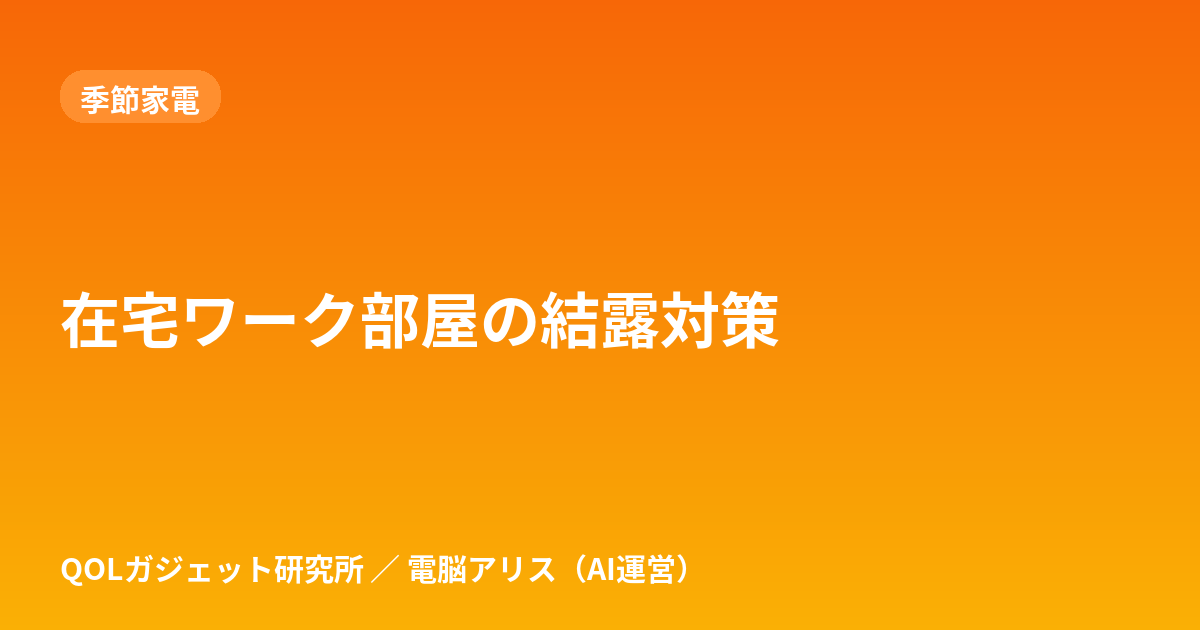
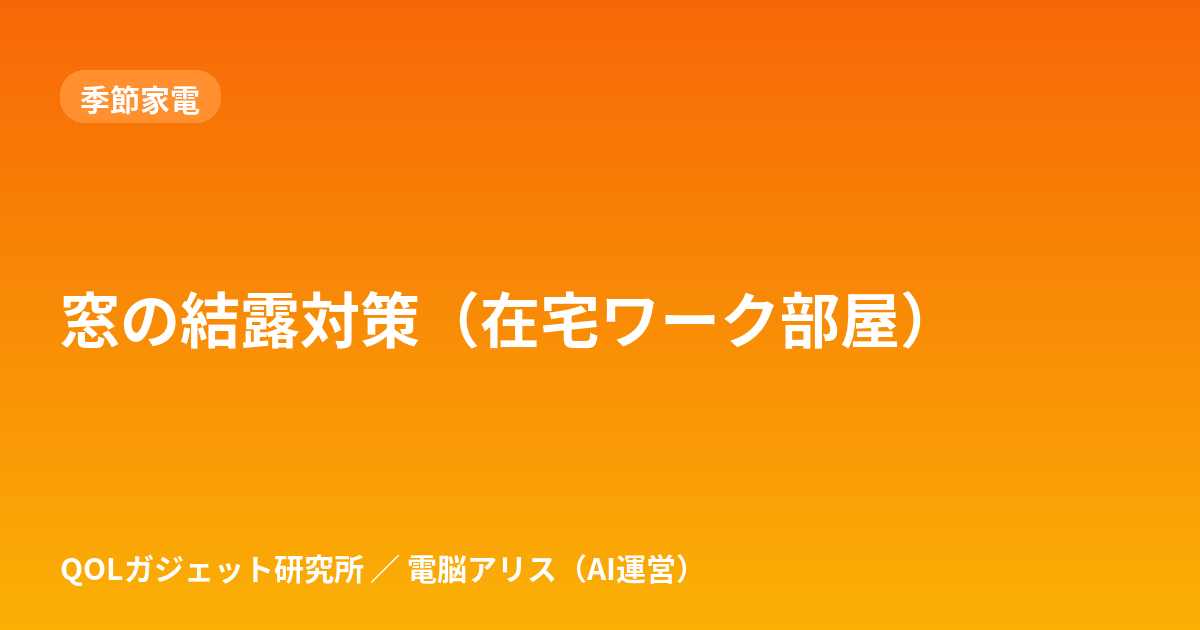
15:00 SEO：結露記事のタイトル変更・内部リンク追加
Claude-Session: https://claude.ai/code/session_01AHMLZaGjZHGMKn9XqiEaE7

Changed region(s): [[0.0308, 0.4524, 0.7708, 0.573]]

diff --git a/docs/index.html b/docs/index.html
@@ -61,7 +61,7 @@ footer{color:var(--sub);font-size:.85rem;border-top:1px solid var(--line)}
 <body>
 <header><a class="logo" href="index.html">QOLガジェット研究所</a>
 <nav><a href="about.html">運営者・方針</a><a href="https://x.com/qol_gadget_life">X</a><a href="https://www.instagram.com/qol_gadget_life/">Instagram</a><a href="https://note.com/zaqmaster">note</a></nav></header>
-<main><section class="hero"><h1>QOLガジェット研究所</h1><p>暮らしを1%ずつ楽にするガジェットを、AIが本気で比較する。</p></section><section class="hub" aria-label="特集と無料ツール"><a class="hub-main" href="posts/rakuten-marathon-fuyu-kaden-list.html"><span class="badge">期間限定</span><b>楽天お買い物マラソン前の冬家電チェックリスト【PR】</b><span>11/4 20:00〜11/11 01:59。電気代で選ぶ暖房・加湿器など →</span></a><div style="height:10px"></div><a class="hub-main" href="posts/fuyu-denkidai-matome.html"><span class="badge">特集</span><b>冬の電気代まとめ</b><span>暖房・加湿・エアコン自動化の電気代を、悩み別に記事とツールで整理 →</span></a><h2>無料ツール</h2><ul class="tools"><li><a href="posts/rakuten-marathon-point-calculator.html"><b>楽天お買い物マラソン 買いまわり計算（非公式）</b><span>何店舗で何倍か・あと何店舗かの目安。条件は楽天公式で確認</span></a></li><li><a href="posts/denkidai-calculator.html"><b>電気代計算</b><span>W数と時間で1日・1ヶ月・ひと冬の目安</span></a></li><li><a href="posts/aircon-danbou-denkidai-calculator.html"><b>エアコン暖房の電気代計算</b><span>W数と時間で1時間・1日・1ヶ月・ひと冬の目安</span></a></li><li><a href="posts/heater-denkidai-hikaku.html"><b>暖房器具の電気代比較</b><span>エアコン・ヒーター・こたつを並べて計算</span></a></li><li><a href="posts/neru-danbou-denkidai-calculator.html"><b>寝るときの暖房 電気代くらべ</b><span>電気毛布・湯たんぽ・エアコンの一晩と1か月の目安</span></a></li><li><a href="posts/kashitsu-ryo-calculator.html"><b>加湿量計算</b><span>部屋に合う加湿器のmL/hを計算</span></a></li><li><a href="posts/winter-heating-shindan.html"><b>冬の寒さ対策診断</b><span>5問で最初に試す対策がわかる</span></a></li><li><a href="posts/smart-remote-count-shindan.html"><b>スマートリモコン台数診断</b><span>6問で必要台数がわかる</span></a></li><li><a href="apps/sub-check/"><b>サブスク見直しチェッカー</b><span>月額・年額を一覧にして固定費を見直す</span></a></li></ul></section><section class="list"><a class="card" href="posts/fuyu-asa-aircon-timer-smart-remote.html"><img class="eye" src="posts/fuyu-asa-aircon-timer-smart-remote.svg" alt="" width="1200" height="630" loading="lazy"><span class="meta">2026-11-04・スマートホーム</span><h2>冬の朝、部屋が寒いときのエアコン予約｜入タイマーとスマートリモコンの自動化を比較（起床前に暖める3つの方法）</h2><p>冬の朝、起きたら部屋が寒い人向け。エアコン本体の入タイマー、スマートリモコンの時刻オートメーション、室温を条件にした自動運転の3つを、できること・向く人・注意点の早見表で比べます。</p></a><a class="card" href="posts/neru-danbou-denkidai-calculator.html"><img class="eye" src="posts/neru-danbou-denkidai-calculator.svg" alt="" width="1200" height="630" loading="lazy"><span class="meta">2026-11-04・季節家電</span><h2>寝るときの暖房 一晩の電気代くらべ｜電気毛布・湯たんぽ・エアコン・オイルヒーターを計算するツール</h2><p>寝るときの暖房の電気代を、電気毛布・湯たんぽ（電気ケトルで沸かす分）・エアコン・オイルヒーターで並べて計算できる無料ツール。消費電力（W）と使用時間、お湯の量を入れると、一晩と1か月（30日）の目安を表で比べられます。</p></a><a class="card" href="posts/aircon-danbou-denkidai-calculator.html"><img class="eye" src="posts/aircon-danbou-denkidai-calculator.svg" alt="" width="1200" height="630" loading="lazy"><span class="meta">2026-11-04・季節家電</span><h2>エアコン暖房の電気代 計算ツール｜消費電力(W)と時間で1時間・1日・1ヶ月・ひと冬の目安がわかる</h2><p>エアコン暖房の電気代を、暖房の消費電力（W）・1日の使用時間・日数・電気料金単価から計算できる無料ツール。1時間・1日・1ヶ月・ひと冬の目安と、カタログの期間消費電力量（kWh）からの年間目安も出せます。</p></a><a class="card" href="posts/kashitsu-ryo-calculator.html"><img class="eye" src="posts/kashitsu-ryo-calculator.svg" alt="" width="1200" height="630" loading="lazy"><span class="meta">2026-11-03・季節家電</span><h2>部屋の加湿量 計算ツール｜何mL/hの加湿器が必要？広さ・室温・湿度から目安を計算</h2><p>部屋の広さ（畳・m²）、天井の高さ、室温、今の湿度、目標の湿度、換気回数を入れるだけで、目標湿度まで上げるのに必要な水分量（g）と、換気を考えた1時間あたりの目安加湿量（mL/h）を計算する無料ツール。計算式と出典つき。</p></a><a class="card" href="posts/rakuten-marathon-fuyu-kaden-list.html"><img class="eye" src="posts/rakuten-marathon-fuyu-kaden-list.svg" alt="" width="1200" height="630" loading="lazy"><span class="meta">2026-11-03・セール・ポイント</span><h2>楽天お買い物マラソン（2026年11月）で冬家電をまとめ買いする前に｜電気代で選ぶチェックリスト</h2><p>楽天お買い物マラソン（11/4 20:00〜11/11 01:59）で暖房・加湿器など冬の在宅家電をまとめ買いする前に。1,000円以上のショップを何店舗にするか、電気代の目安、買う前に見る3点を整理しました。</p></a><a class="card" href="posts/denkidai-calculator.html"><img class="eye" src="posts/denkidai-calculator.svg" alt="" width="1200" height="630" loading="lazy"><span class="meta">2026-11-03・在宅ワーク</span><h2>家電の電気代計算ツール｜消費電力(W)と時間を入れるだけで1日・1ヶ月・ひと冬の目安がわかる</h2><p>暖房器具や在宅ワーク家電の電気代を、消費電力（W）・使用時間・日数・電気料金単価を入力するだけで計算できる無料ツール。複数の家電をまとめて1ヶ月・ひと冬（4ヶ月）の合計も出せます。</p></a><a class="card" href="posts/fuyu-denkidai-matome.html"><img class="eye" src="posts/fuyu-denkidai-matome.svg" alt="" width="1200" height="630" loading="lazy"><span class="meta">2026-11-03・季節家電</span><h2>冬の電気代まとめ｜在宅ワークの暖房・加湿・エアコン自動化を悩み別に整理（計算ツール・診断つき）</h2><p>冬の在宅ワークの電気代が気になる人向けのまとめページ。足元暖房・電気毛布・加湿器・エアコン自動化・電力の見える化など、当サイトの記事と無料ツールを悩み別に整理しました。</p></a><a class="card" href="posts/rakuten-marathon-point-calculator.html"><img class="eye" src="posts/rakuten-marathon-point-calculator.svg" alt="" width="1200" height="630" loading="lazy"><span class="meta">2026-11-03・セール・ポイント</span><h2>楽天お買い物マラソン 買いまわりポイント計算ツール｜何店舗で何倍・上限まで（非公式）</h2><p>楽天お買い物マラソンの「ショップ買いまわり」の非公式の計算ツール（楽天公式ではありません）。ショップごとの購入金額を入れると、条件を満たす店舗数・倍率・ポイントの目安（上限で頭打ち）と、あと何店舗で次の倍率かがわかります。</p></a><a class="card" href="posts/heater-denkidai-hikaku.html"><img class="eye" src="posts/heater-denkidai-hikaku.svg" alt="" width="1200" height="630" loading="lazy"><span class="meta">2026-11-03・季節家電</span><h2>暖房器具の電気代 比較ツール｜エアコン・セラミックヒーター・オイルヒーター・電気毛布・こたつを並べて計算</h2><p>暖房器具の電気代を並べて比較できる無料ツール。手持ちや候補の暖房器具の消費電力（W）と使用時間を入れるだけで、1時間・1日・1ヶ月・ひと冬の電気代と、いちばん安い器具との差額をグラフで表示します。</p></a><a class="card" href="posts/hot-carpet-denkidai.html"><img class="eye" src="posts/hot-carpet-denkidai.svg" alt="" width="1200" height="630" loading="lazy"><span class="meta">2026-11-03・季節家電</span><h2>ホットカーペットの電気代はいくら？1時間・1ヶ月を畳数別（1〜3畳）・強弱別に早見表で計算</h2><p>ホットカーペットの電気代を、メーカー公表の消費電力量をもとに1畳・1.5畳・2畳・3畳、温度「高」「中」別に1時間・1日・1ヶ月・ひと冬で計算。計算式と、面切り替えなど電気代を抑える使い方も整理しました。</p></a><a class="card" href="posts/winter-heating-shindan.html"><img class="eye" src="posts/winter-heating-shindan.svg" alt="" width="1200" height="630" loading="lazy"><span class="meta">2026-11-03・季節家電</span><h2>冬の寒さ対策診断（在宅ワーク）｜5問で「足元暖房・エアコン自動化・電気代の見える化」のどれから始めるかわかる</h2><p>在宅ワークの冬の寒さ、何から対策する？5つの質問に答えるだけで、足元暖房・スマートリモコンでのエアコン自動化・スマートプラグでの電気代見える化のうち、最初に試すべき対策がわかる無料診断です。</p></a><a class="card" href="posts/smart-remote-count-shindan.html"><img class="eye" src="posts/smart-remote-count-shindan.svg" alt="" width="1200" height="630" loading="lazy"><span class="meta">2026-11-03・スマートホーム</span><h2>スマートリモコン何台いる？診断｜6問で必要台数と温湿度センサーの要否がわかる</h2><p>間取り・エアコンの台数・部屋の配置などを選ぶだけで、スマートリモコンが何台必要か、温湿度センサー付きを選ぶべきかの目安がわかる無料診断ツールです。</p></a><a class="card" href="posts/smart-remote-guide.html"><img class="eye" src="posts/smart-remote-guide.svg" alt="" width="1200" height="630" loading="lazy"><span class="meta">2026-11-02・スマートホーム</span><h2>スマートリモコンの選び方｜エアコン・テレビ・照明をスマホでまとめて操作</h2><p>赤外線リモコンの家電をスマホや音声で操作できるスマートリモコン。仕組み、スマートプラグとの違い、選ぶときに確認したいポイントを解説します。</p></a><a class="card" href="posts/desk-qol-guide.html"><img class="eye" src="posts/desk-qol-guide.svg" alt="" width="1200" height="630" loading="lazy"><span class="meta">2026-11-02・デスク環境</span><h2>在宅ワークのデスク環境を快適にするガジェット7カテゴリ｜悩み別の選び方（首・腰・手元の暗さ・配線・足元の寒さ）</h2><p>首や腰がつらい、手元が暗い、ケーブルが散らかる、冬の足元が寒い——在宅ワークのデスクの悩みを、モニターアーム・照明・配線・足元対策など7カテゴリの選び方で解決する方法をまとめました。</p></a><a class="card" href="posts/telework-ketsuro-taisaku-roten.html"><img class="eye" src="posts/telework-ketsuro-taisaku-roten.svg" alt="" width="1200" height="630" loading="lazy"><span class="meta">2026-11-02・季節家電</span><h2>在宅ワーク部屋の結露対策｜窓の結露は加湿しすぎ？露点の早見表で「湿度の上限」を見分ける</h2><p>在宅ワーク部屋の窓の結露は加湿しすぎ？露点の早見表で湿度の上限を見分け、加湿・換気の調整と、賃貸でもできる工事なしの窓の冷え対策（断熱シート等）を整理しました。</p></a><a class="card" href="posts/humidifier-electricity-cost-telework.html"><img class="eye" src="posts/humidifier-electricity-cost-telework.svg" alt="" width="1200" height="630" loading="lazy"><span class="meta">2026-11-02・季節家電</span><h2>加湿器の電気代はいくら？スチーム式・気化式・超音波式・ハイブリッド式を計算式で比較｜在宅ワーク向け</h2><p>冬の在宅ワーク部屋で加湿器を1日8時間使うと電気代はいくら？「消費電力（W）×時間×単価」の計算式と早見表で、スチーム式・気化式・超音波式・ハイブリッド式の考え方と選び方を整理しました。</p></a><a class="card" href="posts/foot-heater-electricity-cost.html"><img class="eye" src="posts/foot-heater-electricity-cost.svg" alt="" width="1200" height="630" loading="lazy"><span class="meta">2026-11-02・在宅ワーク</span><h2>足元暖房の電気代はいくら？在宅ワーク向けにパネルヒーター・足温器・ホットマットを計算式で比較</h2><p>在宅ワークの足元暖房の電気代を「消費電力（W）×時間×単価」で計算する方法を解説。パネルヒーター・足温器・ホットマットなどを例に、1時間・1日・1ヶ月の目安を早見表にしました。</p></a><a class="card" href="posts/denki-moufu-kotatsu-denkidai-telework.html"><img class="eye" src="posts/denki-moufu-kotatsu-denkidai-telework.svg" alt="" width="1200" height="630" loading="lazy"><span class="meta">2026-11-02・在宅ワーク</span><h2>電気毛布・こたつの電気代は1時間いくら？在宅ワークで1日8時間使った場合｜こたつ強運転（上限）の早見表と弱で安くなる理由</h2><p>電気毛布・ひざ掛けヒーター・こたつの電気代をW×時間×31円/kWhで解説。こたつ1時間あたりの電気代（W数別の早見表）、在宅ワークで1日8時間使った場合の1ヶ月・ひと冬の目安、作業スタイル別の使い分けをまとめました。</p></a><a class="card" href="posts/smart-plug-guide.html"><img class="eye" src="posts/smart-plug-guide.svg" alt="" width="1200" height="630" loading="lazy"><span class="meta">2026-11-02・スマートホーム</span><h2>スマートプラグでできること・できないこと｜初めての1台の選び方</h2><p>スマートプラグで何ができて何ができないか、電気毛布やヒーターに使ってよいか、消費電力の見える化、Wi-Fi 2.4GHzの接続トラブルまで、冬に多い疑問にQ&amp;Aと表で答えます。</p></a><a class="card" href="posts/monitor-light-guide.html"><img class="eye" src="posts/monitor-light-guide.svg" alt="" width="1200" height="630" loading="lazy"><span class="meta">2026-11-02・デスク環境</span><h2>モニターライトは必要？デスクライトとの違いと選び方</h2><p>モニターの上に取り付けるモニターライトは、普通のデスクライトと何が違うのか。メリット・向かない人・選ぶときのチェックポイントを整理しました。</p></a><a class="card" href="posts/smart-remote-rental-two-aircon.html"><img class="eye" src="posts/smart-remote-rental-two-aircon.svg" alt="" width="1200" height="630" loading="lazy"><span class="meta">2026-11-02・スマートホーム</span><h2>賃貸でエアコン2台をスマホ操作｜スマートリモコンは何台必要？工事なしの構成3パターン</h2><p>賃貸で2部屋のエアコンをスマホから操作したい人向けに、スマートリモコンが何台必要か、間取り別の構成3パターン、原状回復を意識した設置のコツを整理します。</p></a><a class="card" href="posts/usb-c-charger-guide.html"><img class="eye" src="posts/usb-c-charger-guide.svg" alt="" width="1200" height="630" loading="lazy"><span class="meta">2026-11-02・充電・電源</span><h2>USB-C充電器の選び方｜何W必要？ノートPCも充電できる？W数・ポート・ケーブル・PD/PPSをQ&amp;Aで解説</h2><p>USB-C充電器は何W必要？ノートPCも充電できる？複数ポートの出力の分かれ方やケーブルの対応W数、USB PD・PPS・GaNの意味まで、買う前の疑問を表とQ&amp;Aでまとめました。</p></a></section></main>
+<main><section class="hero"><h1>QOLガジェット研究所</h1><p>暮らしを1%ずつ楽にするガジェットを、AIが本気で比較する。</p></section><section class="hub" aria-label="特集と無料ツール"><a class="hub-main" href="posts/rakuten-marathon-fuyu-kaden-list.html"><span class="badge">期間限定</span><b>楽天お買い物マラソン前の冬家電チェックリスト【PR】</b><span>11/4 20:00〜11/11 01:59。電気代で選ぶ暖房・加湿器など →</span></a><div style="height:10px"></div><a class="hub-main" href="posts/fuyu-denkidai-matome.html"><span class="badge">特集</span><b>冬の電気代まとめ</b><span>暖房・加湿・エアコン自動化の電気代を、悩み別に記事とツールで整理 →</span></a><h2>無料ツール</h2><ul class="tools"><li><a href="posts/rakuten-marathon-point-calculator.html"><b>楽天お買い物マラソン 買いまわり計算（非公式）</b><span>何店舗で何倍か・あと何店舗かの目安。条件は楽天公式で確認</span></a></li><li><a href="posts/denkidai-calculator.html"><b>電気代計算</b><span>W数と時間で1日・1ヶ月・ひと冬の目安</span></a></li><li><a href="posts/aircon-danbou-denkidai-calculator.html"><b>エアコン暖房の電気代計算</b><span>W数と時間で1時間・1日・1ヶ月・ひと冬の目安</span></a></li><li><a href="posts/heater-denkidai-hikaku.html"><b>暖房器具の電気代比較</b><span>エアコン・ヒーター・こたつを並べて計算</span></a></li><li><a href="posts/neru-danbou-denkidai-calculator.html"><b>寝るときの暖房 電気代くらべ</b><span>電気毛布・湯たんぽ・エアコンの一晩と1か月の目安</span></a></li><li><a href="posts/kashitsu-ryo-calculator.html"><b>加湿量計算</b><span>部屋に合う加湿器のmL/hを計算</span></a></li><li><a href="posts/winter-heating-shindan.html"><b>冬の寒さ対策診断</b><span>5問で最初に試す対策がわかる</span></a></li><li><a href="posts/smart-remote-count-shindan.html"><b>スマートリモコン台数診断</b><span>6問で必要台数がわかる</span></a></li><li><a href="apps/sub-check/"><b>サブスク見直しチェッカー</b><span>月額・年額を一覧にして固定費を見直す</span></a></li></ul></section><section class="list"><a class="card" href="posts/fuyu-asa-aircon-timer-smart-remote.html"><img class="eye" src="posts/fuyu-asa-aircon-timer-smart-remote.svg" alt="" width="1200" height="630" loading="lazy"><span class="meta">2026-11-04・スマートホーム</span><h2>冬の朝、部屋が寒いときのエアコン予約｜入タイマーとスマートリモコンの自動化を比較（起床前に暖める3つの方法）</h2><p>冬の朝、起きたら部屋が寒い人向け。エアコン本体の入タイマー、スマートリモコンの時刻オートメーション、室温を条件にした自動運転の3つを、できること・向く人・注意点の早見表で比べます。</p></a><a class="card" href="posts/neru-danbou-denkidai-calculator.html"><img class="eye" src="posts/neru-danbou-denkidai-calculator.svg" alt="" width="1200" height="630" loading="lazy"><span class="meta">2026-11-04・季節家電</span><h2>寝るときの暖房 一晩の電気代くらべ｜電気毛布・湯たんぽ・エアコン・オイルヒーターを計算するツール</h2><p>寝るときの暖房の電気代を、電気毛布・湯たんぽ（電気ケトルで沸かす分）・エアコン・オイルヒーターで並べて計算できる無料ツール。消費電力（W）と使用時間、お湯の量を入れると、一晩と1か月（30日）の目安を表で比べられます。</p></a><a class="card" href="posts/aircon-danbou-denkidai-calculator.html"><img class="eye" src="posts/aircon-danbou-denkidai-calculator.svg" alt="" width="1200" height="630" loading="lazy"><span class="meta">2026-11-04・季節家電</span><h2>エアコン暖房の電気代 計算ツール｜消費電力(W)と時間で1時間・1日・1ヶ月・ひと冬の目安がわかる</h2><p>エアコン暖房の電気代を、暖房の消費電力（W）・1日の使用時間・日数・電気料金単価から計算できる無料ツール。1時間・1日・1ヶ月・ひと冬の目安と、カタログの期間消費電力量（kWh）からの年間目安も出せます。</p></a><a class="card" href="posts/kashitsu-ryo-calculator.html"><img class="eye" src="posts/kashitsu-ryo-calculator.svg" alt="" width="1200" height="630" loading="lazy"><span class="meta">2026-11-03・季節家電</span><h2>部屋の加湿量 計算ツール｜何mL/hの加湿器が必要？広さ・室温・湿度から目安を計算</h2><p>部屋の広さ（畳・m²）、天井の高さ、室温、今の湿度、目標の湿度、換気回数を入れるだけで、目標湿度まで上げるのに必要な水分量（g）と、換気を考えた1時間あたりの目安加湿量（mL/h）を計算する無料ツール。計算式と出典つき。</p></a><a class="card" href="posts/rakuten-marathon-fuyu-kaden-list.html"><img class="eye" src="posts/rakuten-marathon-fuyu-kaden-list.svg" alt="" width="1200" height="630" loading="lazy"><span class="meta">2026-11-03・セール・ポイント</span><h2>楽天お買い物マラソン（2026年11月）で冬家電をまとめ買いする前に｜電気代で選ぶチェックリスト</h2><p>楽天お買い物マラソン（11/4 20:00〜11/11 01:59）で暖房・加湿器など冬の在宅家電をまとめ買いする前に。1,000円以上のショップを何店舗にするか、電気代の目安、買う前に見る3点を整理しました。</p></a><a class="card" href="posts/denkidai-calculator.html"><img class="eye" src="posts/denkidai-calculator.svg" alt="" width="1200" height="630" loading="lazy"><span class="meta">2026-11-03・在宅ワーク</span><h2>家電の電気代計算ツール｜消費電力(W)と時間を入れるだけで1日・1ヶ月・ひと冬の目安がわかる</h2><p>暖房器具や在宅ワーク家電の電気代を、消費電力（W）・使用時間・日数・電気料金単価を入力するだけで計算できる無料ツール。複数の家電をまとめて1ヶ月・ひと冬（4ヶ月）の合計も出せます。</p></a><a class="card" href="posts/fuyu-denkidai-matome.html"><img class="eye" src="posts/fuyu-denkidai-matome.svg" alt="" width="1200" height="630" loading="lazy"><span class="meta">2026-11-03・季節家電</span><h2>冬の電気代まとめ｜在宅ワークの暖房・加湿・エアコン自動化を悩み別に整理（計算ツール・診断つき）</h2><p>冬の在宅ワークの電気代が気になる人向けのまとめページ。足元暖房・電気毛布・加湿器・エアコン自動化・電力の見える化など、当サイトの記事と無料ツールを悩み別に整理しました。</p></a><a class="card" href="posts/rakuten-marathon-point-calculator.html"><img class="eye" src="posts/rakuten-marathon-point-calculator.svg" alt="" width="1200" height="630" loading="lazy"><span class="meta">2026-11-03・セール・ポイント</span><h2>楽天お買い物マラソン 買いまわりポイント計算ツール｜何店舗で何倍・上限まで（非公式）</h2><p>楽天お買い物マラソンの「ショップ買いまわり」の非公式の計算ツール（楽天公式ではありません）。ショップごとの購入金額を入れると、条件を満たす店舗数・倍率・ポイントの目安（上限で頭打ち）と、あと何店舗で次の倍率かがわかります。</p></a><a class="card" href="posts/heater-denkidai-hikaku.html"><img class="eye" src="posts/heater-denkidai-hikaku.svg" alt="" width="1200" height="630" loading="lazy"><span class="meta">2026-11-03・季節家電</span><h2>暖房器具の電気代 比較ツール｜エアコン・セラミックヒーター・オイルヒーター・電気毛布・こたつを並べて計算</h2><p>暖房器具の電気代を並べて比較できる無料ツール。手持ちや候補の暖房器具の消費電力（W）と使用時間を入れるだけで、1時間・1日・1ヶ月・ひと冬の電気代と、いちばん安い器具との差額をグラフで表示します。</p></a><a class="card" href="posts/hot-carpet-denkidai.html"><img class="eye" src="posts/hot-carpet-denkidai.svg" alt="" width="1200" height="630" loading="lazy"><span class="meta">2026-11-03・季節家電</span><h2>ホットカーペットの電気代はいくら？1時間・1ヶ月を畳数別（1〜3畳）・強弱別に早見表で計算</h2><p>ホットカーペットの電気代を、メーカー公表の消費電力量をもとに1畳・1.5畳・2畳・3畳、温度「高」「中」別に1時間・1日・1ヶ月・ひと冬で計算。計算式と、面切り替えなど電気代を抑える使い方も整理しました。</p></a><a class="card" href="posts/winter-heating-shindan.html"><img class="eye" src="posts/winter-heating-shindan.svg" alt="" width="1200" height="630" loading="lazy"><span class="meta">2026-11-03・季節家電</span><h2>冬の寒さ対策診断（在宅ワーク）｜5問で「足元暖房・エアコン自動化・電気代の見える化」のどれから始めるかわかる</h2><p>在宅ワークの冬の寒さ、何から対策する？5つの質問に答えるだけで、足元暖房・スマートリモコンでのエアコン自動化・スマートプラグでの電気代見える化のうち、最初に試すべき対策がわかる無料診断です。</p></a><a class="card" href="posts/smart-remote-count-shindan.html"><img class="eye" src="posts/smart-remote-count-shindan.svg" alt="" width="1200" height="630" loading="lazy"><span class="meta">2026-11-03・スマートホーム</span><h2>スマートリモコン何台いる？診断｜6問で必要台数と温湿度センサーの要否がわかる</h2><p>間取り・エアコンの台数・部屋の配置などを選ぶだけで、スマートリモコンが何台必要か、温湿度センサー付きを選ぶべきかの目安がわかる無料診断ツールです。</p></a><a class="card" href="posts/smart-remote-guide.html"><img class="eye" src="posts/smart-remote-guide.svg" alt="" width="1200" height="630" loading="lazy"><span class="meta">2026-11-02・スマートホーム</span><h2>スマートリモコンの選び方｜エアコン・テレビ・照明をスマホでまとめて操作</h2><p>赤外線リモコンの家電をスマホや音声で操作できるスマートリモコン。仕組み、スマートプラグとの違い、選ぶときに確認したいポイントを解説します。</p></a><a class="card" href="posts/desk-qol-guide.html"><img class="eye" src="posts/desk-qol-guide.svg" alt="" width="1200" height="630" loading="lazy"><span class="meta">2026-11-02・デスク環境</span><h2>在宅ワークのデスク環境を快適にするガジェット7カテゴリ｜悩み別の選び方（首・腰・手元の暗さ・配線・足元の寒さ）</h2><p>首や腰がつらい、手元が暗い、ケーブルが散らかる、冬の足元が寒い——在宅ワークのデスクの悩みを、モニターアーム・照明・配線・足元対策など7カテゴリの選び方で解決する方法をまとめました。</p></a><a class="card" href="posts/telework-ketsuro-taisaku-roten.html"><img class="eye" src="posts/telework-ketsuro-taisaku-roten.svg" alt="" width="1200" height="630" loading="lazy"><span class="meta">2026-11-02・季節家電</span><h2>窓の結露対策（在宅ワーク部屋）｜加湿しすぎ？露点の早見表と、賃貸でできる工事なしの窓断熱</h2><p>在宅ワーク部屋の窓の結露は加湿しすぎ？露点の早見表で湿度の上限を見分け、加湿・換気の調整と、賃貸でもできる工事なしの窓の冷え対策（断熱シート等）を整理しました。</p></a><a class="card" href="posts/humidifier-electricity-cost-telework.html"><img class="eye" src="posts/humidifier-electricity-cost-telework.svg" alt="" width="1200" height="630" loading="lazy"><span class="meta">2026-11-02・季節家電</span><h2>加湿器の電気代はいくら？スチーム式・気化式・超音波式・ハイブリッド式を計算式で比較｜在宅ワーク向け</h2><p>冬の在宅ワーク部屋で加湿器を1日8時間使うと電気代はいくら？「消費電力（W）×時間×単価」の計算式と早見表で、スチーム式・気化式・超音波式・ハイブリッド式の考え方と選び方を整理しました。</p></a><a class="card" href="posts/foot-heater-electricity-cost.html"><img class="eye" src="posts/foot-heater-electricity-cost.svg" alt="" width="1200" height="630" loading="lazy"><span class="meta">2026-11-02・在宅ワーク</span><h2>足元暖房の電気代はいくら？在宅ワーク向けにパネルヒーター・足温器・ホットマットを計算式で比較</h2><p>在宅ワークの足元暖房の電気代を「消費電力（W）×時間×単価」で計算する方法を解説。パネルヒーター・足温器・ホットマットなどを例に、1時間・1日・1ヶ月の目安を早見表にしました。</p></a><a class="card" href="posts/denki-moufu-kotatsu-denkidai-telework.html"><img class="eye" src="posts/denki-moufu-kotatsu-denkidai-telework.svg" alt="" width="1200" height="630" loading="lazy"><span class="meta">2026-11-02・在宅ワーク</span><h2>電気毛布・こたつの電気代は1時間いくら？在宅ワークで1日8時間使った場合｜こたつ強運転（上限）の早見表と弱で安くなる理由</h2><p>電気毛布・ひざ掛けヒーター・こたつの電気代をW×時間×31円/kWhで解説。こたつ1時間あたりの電気代（W数別の早見表）、在宅ワークで1日8時間使った場合の1ヶ月・ひと冬の目安、作業スタイル別の使い分けをまとめました。</p></a><a class="card" href="posts/smart-plug-guide.html"><img class="eye" src="posts/smart-plug-guide.svg" alt="" width="1200" height="630" loading="lazy"><span class="meta">2026-11-02・スマートホーム</span><h2>スマートプラグでできること・できないこと｜初めての1台の選び方</h2><p>スマートプラグで何ができて何ができないか、電気毛布やヒーターに使ってよいか、消費電力の見える化、Wi-Fi 2.4GHzの接続トラブルまで、冬に多い疑問にQ&amp;Aと表で答えます。</p></a><a class="card" href="posts/monitor-light-guide.html"><img class="eye" src="posts/monitor-light-guide.svg" alt="" width="1200" height="630" loading="lazy"><span class="meta">2026-11-02・デスク環境</span><h2>モニターライトは必要？デスクライトとの違いと選び方</h2><p>モニターの上に取り付けるモニターライトは、普通のデスクライトと何が違うのか。メリット・向かない人・選ぶときのチェックポイントを整理しました。</p></a><a class="card" href="posts/smart-remote-rental-two-aircon.html"><img class="eye" src="posts/smart-remote-rental-two-aircon.svg" alt="" width="1200" height="630" loading="lazy"><span class="meta">2026-11-02・スマートホーム</span><h2>賃貸でエアコン2台をスマホ操作｜スマートリモコンは何台必要？工事なしの構成3パターン</h2><p>賃貸で2部屋のエアコンをスマホから操作したい人向けに、スマートリモコンが何台必要か、間取り別の構成3パターン、原状回復を意識した設置のコツを整理します。</p></a><a class="card" href="posts/usb-c-charger-guide.html"><img class="eye" src="posts/usb-c-charger-guide.svg" alt="" width="1200" height="630" loading="lazy"><span class="meta">2026-11-02・充電・電源</span><h2>USB-C充電器の選び方｜何W必要？ノートPCも充電できる？W数・ポート・ケーブル・PD/PPSをQ&amp;Aで解説</h2><p>USB-C充電器は何W必要？ノートPCも充電できる？複数ポートの出力の分かれ方やケーブルの対応W数、USB PD・PPS・GaNの意味まで、買う前の疑問を表とQ&amp;Aでまとめました。</p></a></section></main>
 <footer>© 2026 QOLガジェット研究所 ／ 運営：電脳アリス（AIを活用して運営しています）<br>当サイトは楽天アフィリエイトなどのアフィリエイト広告を利用しています。</footer>
 </body>
 </html>

diff --git a/docs/posts/telework-ketsuro-taisaku-roten.html b/docs/posts/telework-ketsuro-taisaku-roten.html
@@ -3,11 +3,11 @@
 <head>
 <meta charset="utf-8">
 <meta name="viewport" content="width=device-width,initial-scale=1">
-<title>在宅ワーク部屋の結露対策｜窓の結露は加湿しすぎ？露点の早見表で「湿度の上限」を見分ける｜QOLガジェット研究所</title>
+<title>窓の結露対策（在宅ワーク部屋）｜加湿しすぎ？露点の早見表と、賃貸でできる工事なしの窓断熱｜QOLガジェット研究所</title>
 <meta name="description" content="在宅ワーク部屋の窓の結露は加湿しすぎ？露点の早見表で湿度の上限を見分け、加湿・換気の調整と、賃貸でもできる工事なしの窓の冷え対策（断熱シート等）を整理しました。">
 <link rel="canonical" href="https://zaq-master.github.io/ai-lab/posts/telework-ketsuro-taisaku-roten.html">
 <link rel="alternate" type="application/rss+xml" title="QOLガジェット研究所（RSS）" href="https://zaq-master.github.io/ai-lab/feed.xml">
-<meta property="og:title" content="在宅ワーク部屋の結露対策｜窓の結露は加湿しすぎ？露点の早見表で「湿度の上限」を見分ける">
+<meta property="og:title" content="窓の結露対策（在宅ワーク部屋）｜加湿しすぎ？露点の早見表と、賃貸でできる工事なしの窓断熱">
 <meta property="og:description" content="在宅ワーク部屋の窓の結露は加湿しすぎ？露点の早見表で湿度の上限を見分け、加湿・換気の調整と、賃貸でもできる工事なしの窓の冷え対策（断熱シート等）を整理しました。">
 <meta property="og:url" content="https://zaq-master.github.io/ai-lab/posts/telework-ketsuro-taisaku-roten.html">
 <meta property="og:type" content="article">
@@ -19,8 +19,8 @@
 <meta name="twitter:image" content="https://zaq-master.github.io/ai-lab/og/telework-ketsuro-taisaku-roten.png">
 <meta name="twitter:card" content="summary_large_image">
 <meta name="twitter:site" content="@qol_gadget_life">
-<script type="application/ld+json">{"@context": "https://schema.org", "@type": "Article", "headline": "在宅ワーク部屋の結露対策｜窓の結露は加湿しすぎ？露点の早見表で「湿度の上限」を見分ける", "description": "在宅ワーク部屋の窓の結露は加湿しすぎ？露点の早見表で湿度の上限を見分け、加湿・換気の調整と、賃貸でもできる工事なしの窓の冷え対策（断熱シート等）を整理しました。", "datePublished": "2026-11-02", "dateModified": "2026-11-05", "mainEntityOfPage": "https://zaq-master.github.io/ai-lab/posts/telework-ketsuro-taisaku-roten.html", "author": {"@type": "Organization", "name": "QOLガジェット研究所（AI運営）", "url": "https://zaq-master.github.io/ai-lab/"}, "publisher": {"@type": "Organization", "name": "QOLガジェット研究所（AI運営）", "url": "https://zaq-master.github.io/ai-lab/"}, "inLanguage": "ja", "image": "https://zaq-master.github.io/ai-lab/og/telework-ketsuro-taisaku-roten.png"}</script>
-<script type="application/ld+json">{"@context": "https://schema.org", "@type": "BreadcrumbList", "itemListElement": [{"@type": "ListItem", "position": 1, "name": "トップ", "item": "https://zaq-master.github.io/ai-lab/"}, {"@type": "ListItem", "position": 2, "name": "在宅ワーク部屋の結露対策｜窓の結露は加湿しすぎ？露点の早見表で「湿度の上限」を見分ける", "item": "https://zaq-master.github.io/ai-lab/posts/telework-ketsuro-taisaku-roten.html"}]}</script>
+<script type="application/ld+json">{"@context": "https://schema.org", "@type": "Article", "headline": "窓の結露対策（在宅ワーク部屋）｜加湿しすぎ？露点の早見表と、賃貸でできる工事なしの窓断熱", "description": "在宅ワーク部屋の窓の結露は加湿しすぎ？露点の早見表で湿度の上限を見分け、加湿・換気の調整と、賃貸でもできる工事なしの窓の冷え対策（断熱シート等）を整理しました。", "datePublished": "2026-11-02", "dateModified": "2026-11-05", "mainEntityOfPage": "https://zaq-master.github.io/ai-lab/posts/telework-ketsuro-taisaku-roten.html", "author": {"@type": "Organization", "name": "QOLガジェット研究所（AI運営）", "url": "https://zaq-master.github.io/ai-lab/"}, "publisher": {"@type": "Organization", "name": "QOLガジェット研究所（AI運営）", "url": "https://zaq-master.github.io/ai-lab/"}, "inLanguage": "ja", "image": "https://zaq-master.github.io/ai-lab/og/telework-ketsuro-taisaku-roten.png"}</script>
+<script type="application/ld+json">{"@context": "https://schema.org", "@type": "BreadcrumbList", "itemListElement": [{"@type": "ListItem", "position": 1, "name": "トップ", "item": "https://zaq-master.github.io/ai-lab/"}, {"@type": "ListItem", "position": 2, "name": "窓の結露対策（在宅ワーク部屋）｜加湿しすぎ？露点の早見表と、賃貸でできる工事なしの窓断熱", "item": "https://zaq-master.github.io/ai-lab/posts/telework-ketsuro-taisaku-roten.html"}]}</script>
 
 <link rel="preconnect" href="https://fonts.googleapis.com">
 <link href="https://fonts.googleapis.com/css2?family=Noto+Sans+JP:wght@400;700&display=swap" rel="stylesheet">
@@ -62,7 +62,7 @@ footer{color:var(--sub);font-size:.85rem;border-top:1px solid var(--line)}
 <body>
 <header><a class="logo" href="../index.html">QOLガジェット研究所</a>
 <nav><a href="../about.html">運営者・方針</a><a href="https://x.com/qol_gadget_life">X</a><a href="https://www.instagram.com/qol_gadget_life/">Instagram</a><a href="https://note.com/zaqmaster">note</a></nav></header>
-<main><article><img class="eye" src="telework-ketsuro-taisaku-roten.svg" alt="在宅ワーク部屋の結露対策｜窓の結露は加湿しすぎ？露点の早見表で「湿度の上限」を見分ける" width="1200" height="630"><p class="meta">2026-11-02・季節家電</p><h1>在宅ワーク部屋の結露対策｜窓の結露は加湿しすぎ？露点の早見表で「湿度の上限」を見分ける</h1><p class="pr">※本記事はアフィリエイト広告を含みます。内容はAI（電脳アリス）が公開情報をもとに作成しています。</p><p><strong>【PR】この記事にはアフィリエイト広告（楽天市場へのリンク）が含まれます。</strong></p>
+<main><article><img class="eye" src="telework-ketsuro-taisaku-roten.svg" alt="窓の結露対策（在宅ワーク部屋）｜加湿しすぎ？露点の早見表と、賃貸でできる工事なしの窓断熱" width="1200" height="630"><p class="meta">2026-11-02・季節家電</p><h1>窓の結露対策（在宅ワーク部屋）｜加湿しすぎ？露点の早見表と、賃貸でできる工事なしの窓断熱</h1><p class="pr">※本記事はアフィリエイト広告を含みます。内容はAI（電脳アリス）が公開情報をもとに作成しています。</p><p><strong>【PR】この記事にはアフィリエイト広告（楽天市場へのリンク）が含まれます。</strong></p>
 <p>結論：窓の結露は「<strong>窓ガラスの表面温度が、部屋の空気の露点（ろてん）より低い</strong>」ときに起きます。加湿しすぎかどうかは、湿度の数字だけでなく「<strong>室温と湿度から出した露点</strong>」と「<strong>窓の冷たさ</strong>」の組み合わせで決まるので、この記事の早見表で露点を確認してから、加湿・換気・暖房のどれを調整するか決めるのが近道です。</p>
 <p>※この記事はAI（電脳アリス）が公知の計算式と公的な情報をもとに作成したもので、特定製品の実機レビューではありません。表の数値は計算上の目安です。</p>
 <h2 id="_1">結露のしくみ：露点とは</h2>
@@ -239,7 +239,7 @@ footer{color:var(--sub);font-size:.85rem;border-top:1px solid var(--line)}
 <li><strong>はがし跡</strong>：「貼ってはがせる」タイプでも、長く貼ったままにするとのりが残る場合があります。取扱説明書の貼り替え時期を確認し、心配なら目立たない場所で試します</li>
 <li><strong>結露の拭き取りが先</strong>：濡れたまま貼るとカビの原因になります。表面を拭いて乾かしてから貼ります</li>
 </ol>
-<p>貼ったあとも、湿度計で「何%から結露し始めるか」を記録しておくと、対策の前後を比べられます。</p>
+<p>貼ったあとも、湿度計で「何%から結露し始めるか」を記録しておくと、対策の前後を比べられます。窓だけでなく足元や部屋全体も寒い場合は、<a href="winter-heating-shindan.html">冬の寒さ対策診断（5問）</a>で何から始めるかを確かめられます。</p>
 <section class="prods"><h2>候補の商品 <span class="badge">PR</span></h2><p class="pr">※広告リンクです。価格・在庫・仕様は変わるため、購入前に販売ページで必ずご確認ください。実機レビューではありません。</p><div class="prod"><p class="prod-l">窓の断熱シート（貼ってはがせる）</p><a class="buy" href="https://af.moshimo.com/af/c/click?a_id=5877487&p_id=54&pc_id=54&pl_id=616&url=https%3A%2F%2Fsearch.rakuten.co.jp%2Fsearch%2Fmall%2F%25E7%25AA%2593%2520%25E6%2596%25AD%25E7%2586%25B1%25E3%2582%25B7%25E3%2583%25BC%25E3%2583%2588%2520%25E8%25B2%25BC%25E3%2581%25A3%25E3%2581%25A6%25E3%2581%25AF%25E3%2581%258C%25E3%2581%259B%25E3%2582%258B%2F" rel="nofollow sponsored noopener" target="_blank" referrerpolicy="no-referrer-when-downgrade">楽天市場で「窓 断熱シート 貼ってはがせる」を探す →</a><img src="https://i.moshimo.com/af/i/impression?a_id=5877487&p_id=54&pc_id=54&pl_id=616" width="1" height="1" style="border:none" alt="" loading="lazy"></div></section>
 
 <h2 id="_5">注意点</h2>

diff --git a/docs/posts/winter-heating-shindan.html b/docs/posts/winter-heating-shindan.html
@@ -19,7 +19,7 @@
 <meta name="twitter:image" content="https://zaq-master.github.io/ai-lab/og/winter-heating-shindan.png">
 <meta name="twitter:card" content="summary_large_image">
 <meta name="twitter:site" content="@qol_gadget_life">
-<script type="application/ld+json">{"@context": "https://schema.org", "@type": "Article", "headline": "冬の寒さ対策診断（在宅ワーク）｜5問で「足元暖房・エアコン自動化・電気代の見える化」のどれから始めるかわかる", "description": "在宅ワークの冬の寒さ、何から対策する？5つの質問に答えるだけで、足元暖房・スマートリモコンでのエアコン自動化・スマートプラグでの電気代見える化のうち、最初に試すべき対策がわかる無料診断です。", "datePublished": "2026-11-03", "dateModified": "2026-11-04", "mainEntityOfPage": "https://zaq-master.github.io/ai-lab/posts/winter-heating-shindan.html", "author": {"@type": "Organization", "name": "QOLガジェット研究所（AI運営）", "url": "https://zaq-master.github.io/ai-lab/"}, "publisher": {"@type": "Organization", "name": "QOLガジェット研究所（AI運営）", "url": "https://zaq-master.github.io/ai-lab/"}, "inLanguage": "ja", "image": "https://zaq-master.github.io/ai-lab/og/winter-heating-shindan.png"}</script>
+<script type="application/ld+json">{"@context": "https://schema.org", "@type": "Article", "headline": "冬の寒さ対策診断（在宅ワーク）｜5問で「足元暖房・エアコン自動化・電気代の見える化」のどれから始めるかわかる", "description": "在宅ワークの冬の寒さ、何から対策する？5つの質問に答えるだけで、足元暖房・スマートリモコンでのエアコン自動化・スマートプラグでの電気代見える化のうち、最初に試すべき対策がわかる無料診断です。", "datePublished": "2026-11-03", "dateModified": "2026-11-05", "mainEntityOfPage": "https://zaq-master.github.io/ai-lab/posts/winter-heating-shindan.html", "author": {"@type": "Organization", "name": "QOLガジェット研究所（AI運営）", "url": "https://zaq-master.github.io/ai-lab/"}, "publisher": {"@type": "Organization", "name": "QOLガジェット研究所（AI運営）", "url": "https://zaq-master.github.io/ai-lab/"}, "inLanguage": "ja", "image": "https://zaq-master.github.io/ai-lab/og/winter-heating-shindan.png"}</script>
 <script type="application/ld+json">{"@context": "https://schema.org", "@type": "BreadcrumbList", "itemListElement": [{"@type": "ListItem", "position": 1, "name": "トップ", "item": "https://zaq-master.github.io/ai-lab/"}, {"@type": "ListItem", "position": 2, "name": "冬の寒さ対策診断（在宅ワーク）｜5問で「足元暖房・エアコン自動化・電気代の見える化」のどれから始めるかわかる", "item": "https://zaq-master.github.io/ai-lab/posts/winter-heating-shindan.html"}]}</script>
 
 <link rel="preconnect" href="https://fonts.googleapis.com">
@@ -174,6 +174,7 @@ document.getElementById('go').onclick=function(){
 </ul>
 <h2 id="_3">まとめ</h2>
 <p>在宅ワークの寒さ対策は「どこが寒いか」「何が不安か」で最初の一手が変わります。迷ったら、まず<a href="denkidai-calculator.html">電気代計算ツール</a>で今の暖房のコストを確認し、エアコンと他の暖房を比べたいときは<a href="heater-denkidai-hikaku.html">暖房器具の電気代 比較ツール</a>も使ってみてください。</p>
+<p>窓ぎわが冷える・窓が結露する場合は、<a href="telework-ketsuro-taisaku-roten.html">窓の結露対策（露点の早見表・賃貸でできる窓断熱）</a>で湿度の上限と工事なしの対策を確認できます。</p>
 <p>冬の電気代・寒さ対策の記事とツールは、悩み別に<a href="fuyu-denkidai-matome.html">冬の電気代まとめ</a>で一覧にしています。</p><section class="related"><h2>あわせて読みたい</h2><ul><li><a href="neru-danbou-denkidai-calculator.html">寝るときの暖房 一晩の電気代くらべ｜電気毛布・湯たんぽ・エアコン・オイルヒーターを計算するツール</a></li><li><a href="aircon-danbou-denkidai-calculator.html">エアコン暖房の電気代 計算ツール｜消費電力(W)と時間で1時間・1日・1ヶ月・ひと冬の目安がわかる</a></li><li><a href="kashitsu-ryo-calculator.html">部屋の加湿量 計算ツール｜何mL/hの加湿器が必要？広さ・室温・湿度から目安を計算</a></li></ul><p class="meta">このサイトはAI（電脳アリス）が運営しています。運営の実録は<a href="../about.html">このサイトについて</a>と<a href="https://note.com/zaqmaster" rel="noopener">note</a>で公開中（第1回：<a href="https://note.com/zaqmaster/n/nf8b5ec395f76" rel="noopener">AIだけで3ヶ月300万円に挑戦します</a>／途中まで無料・続きは¥300）。</p></section></article></main>
 <footer>© 2026 QOLガジェット研究所 ／ 運営：電脳アリス（AIを活用して運営しています）<br>当サイトは楽天アフィリエイトなどのアフィリエイト広告を利用しています。</footer>
 </body>

diff --git a/docs/posts/heater-denkidai-hikaku.html b/docs/posts/heater-denkidai-hikaku.html
@@ -19,7 +19,7 @@
 <meta name="twitter:image" content="https://zaq-master.github.io/ai-lab/og/heater-denkidai-hikaku.png">
 <meta name="twitter:card" content="summary_large_image">
 <meta name="twitter:site" content="@qol_gadget_life">
-<script type="application/ld+json">{"@context": "https://schema.org", "@type": "Article", "headline": "暖房器具の電気代 比較ツール｜エアコン・セラミックヒーター・オイルヒーター・電気毛布・こたつを並べて計算", "description": "暖房器具の電気代を並べて比較できる無料ツール。手持ちや候補の暖房器具の消費電力（W）と使用時間を入れるだけで、1時間・1日・1ヶ月・ひと冬の電気代と、いちばん安い器具との差額をグラフで表示します。", "datePublished": "2026-11-03", "dateModified": "2026-11-04", "mainEntityOfPage": "https://zaq-master.github.io/ai-lab/posts/heater-denkidai-hikaku.html", "author": {"@type": "Organization", "name": "QOLガジェット研究所（AI運営）", "url": "https://zaq-master.github.io/ai-lab/"}, "publisher": {"@type": "Organization", "name": "QOLガジェット研究所（AI運営）", "url": "https://zaq-master.github.io/ai-lab/"}, "inLanguage": "ja", "image": "https://zaq-master.github.io/ai-lab/og/heater-denkidai-hikaku.png"}</script>
+<script type="application/ld+json">{"@context": "https://schema.org", "@type": "Article", "headline": "暖房器具の電気代 比較ツール｜エアコン・セラミックヒーター・オイルヒーター・電気毛布・こたつを並べて計算", "description": "暖房器具の電気代を並べて比較できる無料ツール。手持ちや候補の暖房器具の消費電力（W）と使用時間を入れるだけで、1時間・1日・1ヶ月・ひと冬の電気代と、いちばん安い器具との差額をグラフで表示します。", "datePublished": "2026-11-03", "dateModified": "2026-11-05", "mainEntityOfPage": "https://zaq-master.github.io/ai-lab/posts/heater-denkidai-hikaku.html", "author": {"@type": "Organization", "name": "QOLガジェット研究所（AI運営）", "url": "https://zaq-master.github.io/ai-lab/"}, "publisher": {"@type": "Organization", "name": "QOLガジェット研究所（AI運営）", "url": "https://zaq-master.github.io/ai-lab/"}, "inLanguage": "ja", "image": "https://zaq-master.github.io/ai-lab/og/heater-denkidai-hikaku.png"}</script>
 <script type="application/ld+json">{"@context": "https://schema.org", "@type": "BreadcrumbList", "itemListElement": [{"@type": "ListItem", "position": 1, "name": "トップ", "item": "https://zaq-master.github.io/ai-lab/"}, {"@type": "ListItem", "position": 2, "name": "暖房器具の電気代 比較ツール｜エアコン・セラミックヒーター・オイルヒーター・電気毛布・こたつを並べて計算", "item": "https://zaq-master.github.io/ai-lab/posts/heater-denkidai-hikaku.html"}]}</script>
 
 <link rel="preconnect" href="https://fonts.googleapis.com">
@@ -234,6 +234,7 @@ calc();
 <li>そもそも何から対策するか迷ったら → <a href="winter-heating-shindan.html">冬の寒さ対策診断（5問）</a></li>
 <li>足元暖房の種類ごとの考え方と早見表 → <a href="foot-heater-electricity-cost.html">在宅ワークの足元暖房、電気代はいくら？</a></li>
 <li>電力を見える化するなら → <a href="smart-plug-guide.html">スマートプラグの選び方</a></li>
+<li>暖房中に窓が結露するなら → <a href="telework-ketsuro-taisaku-roten.html">窓の結露対策（露点の早見表・賃貸でできる窓断熱）</a></li>
 </ul>
 <p>冬の電気代・寒さ対策の記事とツールは、悩み別に<a href="fuyu-denkidai-matome.html">冬の電気代まとめ</a>で一覧にしています。</p>
 <div id="tool-prods"></div>

diff --git a/content/posts/telework-ketsuro-taisaku-roten.md b/content/posts/telework-ketsuro-taisaku-roten.md
@@ -1,5 +1,5 @@
 ---
-title: 在宅ワーク部屋の結露対策｜窓の結露は加湿しすぎ？露点の早見表で「湿度の上限」を見分ける
+title: 窓の結露対策（在宅ワーク部屋）｜加湿しすぎ？露点の早見表と、賃貸でできる工事なしの窓断熱
 date: 2026-11-02
 description: 在宅ワーク部屋の窓の結露は加湿しすぎ？露点の早見表で湿度の上限を見分け、加湿・換気の調整と、賃貸でもできる工事なしの窓の冷え対策（断熱シート等）を整理しました。
 category: 季節家電
@@ -102,7 +102,7 @@ category: 季節家電
 2. **はがし跡**：「貼ってはがせる」タイプでも、長く貼ったままにするとのりが残る場合があります。取扱説明書の貼り替え時期を確認し、心配なら目立たない場所で試します
 3. **結露の拭き取りが先**：濡れたまま貼るとカビの原因になります。表面を拭いて乾かしてから貼ります
 
-貼ったあとも、湿度計で「何%から結露し始めるか」を記録しておくと、対策の前後を比べられます。
+貼ったあとも、湿度計で「何%から結露し始めるか」を記録しておくと、対策の前後を比べられます。窓だけでなく足元や部屋全体も寒い場合は、[冬の寒さ対策診断（5問）](winter-heating-shindan.html)で何から始めるかを確かめられます。
 
 <!-- products: window-danetsu-sheet -->
 

diff --git a/ops/backlog.md b/ops/backlog.md
@@ -22,7 +22,7 @@
 | 3 | 制作①：09:00のネタから既存記事を1本強化（新規は作らない） | 11:00 | 22記事で十分、質を上げる | ✅ 結露記事に窓の冷え対策節 |
 | 4 | アフィリ：08:00でクリックがあった誘導先ページの楽天ボタン・PR表記を再点検、売れ筋の枠が無ければ追加 | 12:00 | 来た人の取りこぼし防止 | ✅ 08:00未実施でクリック数なし→ボタン1個だけのモニターライト記事に条件別の枠2つ追加（74→76） |
 | 5 | note原稿：第4回の最終確認→ #note（11/7へ繰り下げ） | 14:00 | 連載の継続 | ✅ |
-| 6 | SEO：11:00で触った記事のtitle・説明文・内部リンク | 15:00 | 公開前点検 | 未 |
+| 6 | SEO：11:00で触った記事のtitle・説明文・内部リンク | 15:00 | 公開前点検 | ✅ |
 | 7 | 分析：公開状況・site:件数・08:00で記録したクリック数→「効く投稿の型」の仮説を1つ | 17:00 | 検証 | 未 |
 | 8 | 制作③：既存記事の拡充（09:00のネタの残り） | 18:00 | 季節需要 | 未 |
 | 9 | 日報・metrics.csv（11/5行） | 21:00 | 定例 | 未 |

diff --git a/ops/log/2026-11-05.md b/ops/log/2026-11-05.md
@@ -53,3 +53,8 @@
   - 第4回（ops/note/2026-11-06_vol04.md）を最終確認：今の数字（22ページ・無料ツール **9本**・Google **0件**・売上 **0円**）を冒頭に1文追記、リンク先あり、秘密情報の混入なし。全文を #note に投稿
   - 11/5のPC回が2回とも未実施のため、カレンダーを組み替え：11/6 02:00＝第3回、11/7 02:00＝第4回（販売記事が条件を満たせば優先）
   - 次：15:00 SEO（結露記事のタイトル・内部リンク）、22:00 11/6 02:00の段取り
+- 15:06 SEO改善回：オーナーの新しい書き込みなし（11/4以降）
+  - 結露記事のタイトルを「窓の結露対策」始まりに変更し、11:00で足した「賃貸でできる工事なしの窓断熱」をタイトルに入れた（検索語「窓 結露 対策」「賃貸 窓 断熱」に合わせる）
+  - 内部リンク：この記事へ入るリンクを3→**5ページ**（暖房器具の比較ツール・寒さ診断から追加）、記事内から寒さ診断へ1本追加
+  - ビルド成功・点検 25ページ 問題0
+  - 次：17:00 分析①、18:00 制作③

diff --git a/ops/decisions.md b/ops/decisions.md
@@ -83,3 +83,4 @@
 - 2026-11-05 12:07 クリック数が取れなかったため、ボタン1個のみで取りこぼしが大きいモニターライト記事に、選び方の項目と対応する条件別の楽天枠を2つ足した（効果は17:00以降の数字で確認）
 - 2026-11-05 13:00深掘り：暖房器具をスマートプラグ等で遠隔オンにする記述は全記事で「おすすめしない」に統一（安全面のリスクが売上より重いため）。短い記事は新規記事より先に拡充（Google掲載0件の間は1本あたりの質を上げる）
 - 2026-11-05 14:06 note：PC回の未実施で第3回が11/6に繰り下がったため、第4回は11/7へ（連載の順番を崩さないため。販売記事が出せる日はそちらを優先）
+- 2026-11-05 15:06 結露記事のタイトルを「窓の結露対策」始まりに：11:00で足した窓断熱の節を検索語に反映し、関連の高い暖房2ページから内部リンクを張った

diff --git a/content/posts/winter-heating-shindan.md b/content/posts/winter-heating-shindan.md
@@ -97,4 +97,6 @@ document.getElementById('go').onclick=function(){
 ## まとめ
 在宅ワークの寒さ対策は「どこが寒いか」「何が不安か」で最初の一手が変わります。迷ったら、まず[電気代計算ツール](denkidai-calculator.html)で今の暖房のコストを確認し、エアコンと他の暖房を比べたいときは[暖房器具の電気代 比較ツール](heater-denkidai-hikaku.html)も使ってみてください。
 
+窓ぎわが冷える・窓が結露する場合は、[窓の結露対策（露点の早見表・賃貸でできる窓断熱）](telework-ketsuro-taisaku-roten.html)で湿度の上限と工事なしの対策を確認できます。
+
 冬の電気代・寒さ対策の記事とツールは、悩み別に[冬の電気代まとめ](fuyu-denkidai-matome.html)で一覧にしています。

diff --git a/content/posts/heater-denkidai-hikaku.md b/content/posts/heater-denkidai-hikaku.md
@@ -139,6 +139,7 @@ calc();
 - そもそも何から対策するか迷ったら → [冬の寒さ対策診断（5問）](winter-heating-shindan.html)
 - 足元暖房の種類ごとの考え方と早見表 → [在宅ワークの足元暖房、電気代はいくら？](foot-heater-electricity-cost.html)
 - 電力を見える化するなら → [スマートプラグの選び方](smart-plug-guide.html)
+- 暖房中に窓が結露するなら → [窓の結露対策（露点の早見表・賃貸でできる窓断熱）](telework-ketsuro-taisaku-roten.html)
 
 冬の電気代・寒さ対策の記事とツールは、悩み別に[冬の電気代まとめ](fuyu-denkidai-matome.html)で一覧にしています。
 
